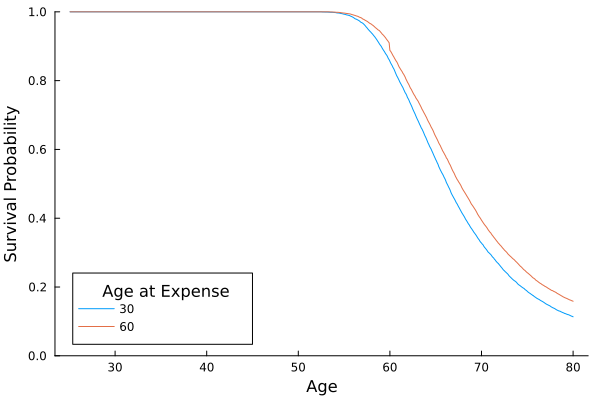
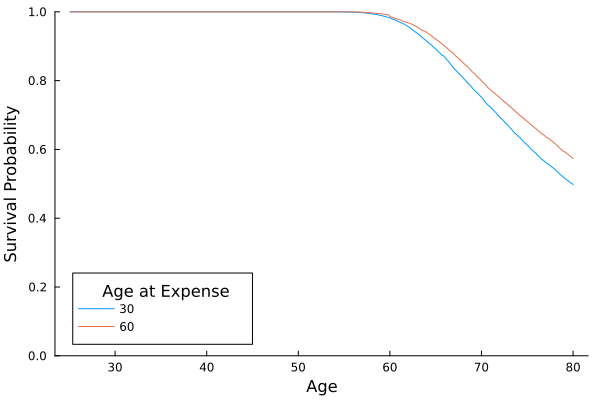
add docs for advanced example

diff --git a/docs/src/advanced_example.md b/docs/src/advanced_example.md
@@ -10,7 +10,7 @@ using StatsPlots
 The goal of the advanced example is to demonstrate how to perform more complex Monte Carlo simulations of your retirement scenario. The advanced example will cover three new techniques:
 
 1. simulating plausible dynamics in the stock market
-2. creating a custom update function for withdrawing money from investments
+2. creating a custom update function to include a large, one-time expense at various time points
 3. performing the simulation across multiple values of a parameter
 
 Adding these techniques to your toolkit will allow you to simulate more plausible retirement simulations, customize the behavior of the simulation to address your own questions and goals, and systematically compare different scenarios conveniently within the same code. 
@@ -46,6 +46,17 @@ In this example, we will use the same timing paramers used in the basic example:
 
 ### Withdraw
 
+The `withdraw` function below extends the `variable_withdraw` function from the [intermediate example](intermediate_example.md) by allowing us to specify the amount and timing of a one-time large expense. The keyword arguments for `custom_withdraw` are defined as follows:
+
+        t;
+- `start_age`: the age in years at which regular monthly withdraws begin 
+- `age_at_expense`: the age in years at which the one-time expense occurs
+- `expense`: the amount of the expense in dollars 
+- `distribution`: the distribution of regular monthly withdraw amounts
+
+
+The function `custom_withdraw` has two basic parts based on the top-level `if` statement. The first part of the `if` statement implements the logic for the large one-time expense. The second part implements the logic for the regular monthly withdraw. Notice that the one-time expense and monthly withdraw are mutually exclusive rather than additive. Changing this logic is possible, but does not have much of an effect on the simulation results. 
+
 ```julia 
 function custom_withdraw(
         model::AbstractModel, 
@@ -56,7 +67,7 @@ function custom_withdraw(
         distribution
     )
     # make withdraw for major expense if possible
-    if age_at_expense == t
+    if age_at_expense ≈ t
         model.state.withdraw_amount = expense
         if model.state.net_worth < expense
             model.state.withdraw_amount = model.state.net_worth
@@ -120,11 +131,9 @@ model = Model(;
 
 ## Configure Update Options
 
-We will specify the parameters of the update function in a nested configuration data structure, which passes keyword arguments to their corresponding update funtions. The configuration data structure is a nested `NamedTuple` (i.e., immutable keyword-value pairs), where the keywords in the first level correspond to the keyword inputs of the update functions. For example, the keyword `kw_invest` (short for keyword invest) is a set of keywords passed to the function `fixed_investment`.
+As in the [intermediate example](intermediate_example.md), the mean monthly investment follows a normal distribution with a mean of `$2,000` and a standard deviation of `$500` to reflect fluctuations in income and expenses. As before, investments are made until an early retirement at age 40. Upon retirement at age 40, we again assume that you withdraw `$2,200` per month with a standard deviation of `$500` to reflect fluctuation in monthly expenses. However, we assume that there is a large expense of `$15,000` at age 30 in one simulation and at age 60 in the others. To perform a grid search over these values, we wrap them in a vector as follows: ` age_at_expense = [30,60]`. It is worth noting that in principle we can vary additional factors in the simulation, such as the large expense amount, or the investment distribution. For the sake of simplicity, we will only vary *age-at-expense* to observe its impact on the survival probabilities across time. 
 
-The configuration data structure below defines distributions over quanties, such as investment and withdraw amount. Aside from drawling random values from probability distributions, the simulation is the same as that described in the [basic example](basic_example.md).
-
- The mean monthly investment follows a normal distribution with a mean of `$2,000` and a standard deviation of `$500` to reflect fluctuations in income and expenses. As before, investments are made until an early retirement at age 40. The yearly interest rate on investments has a mean of `.08` with a large standard deviation of `.08` to reflect inherent volitility in the stock market. The yearly inflation rate has a mean of `.035` and a standard deviation of `.015`. Upon retirement at age 40, we assume that you withdraw `$2,200` per month with a standard deviation of `$500` to reflect fluctuation in monthly expenses. 
+Unlike the previous examples, we will use the Geometric Brownian Motion process to simulate growth in the stock market and inflation in the monetary system. We will assume that the yearly growth rate on investments has a mean of `.07` with a standard deviation of `.05` to reflect inherent volitility in the stock market. Additionally, we wil assume yearly inflation rate has a mean of `.035` and a standard deviation of `.005`. All the assumptions specified above are encoded into the `config` object below. 
 
 ```julia 
 config = (
@@ -135,7 +144,7 @@ config = (
     ),
     # interest parameters
     kw_interest = (
-        gbm = GBM(; μ = .07, σ = .05),
+        gbm = GBM(; μ = .08, σ = .05),
     ),
     # inflation parameters
     kw_inflation = (
@@ -151,16 +160,38 @@ config = (
 )
 ```
 
-## Run Simulation
+## Run Grid Search
 
-Now that we have specified the parameters of the simulation, we can use the function `simulate!` to generate retirement numbers and save them to the `Logger` object. As shown below, `simulate!` requires our model object, the logger, and the number of repetitions. The optional configuration object is passed as a variable keyword using `; config...`, which maps the nested keywords in the `NamedTuple` to the corresponding keywords defined in the `simulate!` method signature. 
+In the code block below, we will perform a grid search over the values for *age-at-expense* to see how it affects the survival probability of the retirement plan across time. As its name implies, this is performed with the function `grid_search` which takes as input the `model` object, the `Logger` object type, `n_reps`, and our simulation configuration object, `config`. Internally, `grid_search` calls `simulate!` for each value of *age-at-expense*. 
+
+The second line in the code block converts the results to a `DataFrame` to make subsequent analysis and plotting easier. 
 
 ```julia
-# perform the grid search for age_at_expense using 5000 reps per condition
+# perform the grid search for age_at_expense using 10_000 reps per condition
 results = grid_search(model, Logger, 10_000; config)
 # convert output to data frame
 df = to_dataframe(model, results)
 ```
+```julia 
+13200000×6 DataFrame
+      Row │ time     rep    net_worth      interest     inflation  withdraw_age_at_expense 
+          │ Float64  Int64  Float64        Float64      Float64    Int64                   
+──────────┼────────────────────────────────────────────────────────────────────────────────
+        1 │ 25.0833      1  12839.3         0.168697    0.0256016                       30
+        2 │ 25.1667      1  14376.0        -0.0600889   0.0395033                       30
+        3 │ 25.25        1  16297.6        -0.244519    0.0583386                       30
+        4 │ 25.3333      1  18628.6         0.160349    0.0499842                       30
+        5 │ 25.4167      1  20787.8         0.0607486   0.0499415                       30
+    ⋮     │    ⋮       ⋮          ⋮             ⋮           ⋮                 ⋮
+ 13199997 │ 79.75    10000      6.48052e5  -0.189062    0.0411538                       60
+ 13199998 │ 79.8333  10000      6.43572e5   0.00590992  0.044513                        60
+ 13199999 │ 79.9167  10000      6.36921e5  -0.00792474  0.075874                        60
+ 13200000 │ 80.0     10000      6.36214e5   0.0840805   0.0522622                       60
+                                                                      13199991 rows omitted
+```
+
+Next, we will create a new indicator variable in the dataframe called `survived`, which is true if the
+net worth at time $t$ is greater than zero, and is false otherwise. The subsequent line groups the dataframe according to the factors *age-at-expense* and *time* and computes the mean of each combination across all repetitions.  
 
 ```julia 
 # code surival at each time point as true or false
@@ -168,11 +199,31 @@ df.survived = df.net_worth .> 0
 # compute the surival probability as a function of age at expense and time
 df_survival = combine(groupby(df, [:withdraw_age_at_expense,:time]), :survived => mean => :survival_prob)
 ```
-The code block below plots five simulation runs. As you can see, there is marked variability between the simulation runs, particularly during the retirement phase following peak net worth. 
+
+```julia 
+1320×3 DataFrame
+  Row │ withdraw_age_at_expense  time     survival_prob 
+      │ Int64                    Float64  Float64       
+──────┼─────────────────────────────────────────────────
+    1 │                      30  25.0833         1.0
+    2 │                      30  25.1667         1.0
+    3 │                      30  25.25           1.0
+    4 │                      30  25.3333         1.0
+    5 │                      30  25.4167         1.0
+  ⋮   │            ⋮                ⋮           ⋮
+ 1317 │                      60  79.75           0.5792
+ 1318 │                      60  79.8333         0.577
+ 1319 │                      60  79.9167         0.5754
+ 1320 │                      60  80.0            0.5739
+                                       1311 rows omitted
+```
+
+The code block below generates a plot of the survival probability as a function of time for each level of *age-at-expse*. As the plot shows, incurring the expense at age 30 reduces the surival probability compared to incurring the cost at age 60. As time continues, the difference in survival probability between the two levels increases. The primary reason is because early withdraw incurrs a larger opportunity cost for compounding interest. In this particular case, the impact was small to moderate, but the effect would be larger with a larger expense. 
 
 ```julia 
 @df df_survival plot(:time, :survival_prob, group=:withdraw_age_at_expense,
-    ylims=(0,1), legendtitle="Age at Expense", grid=false, xlabel="Age", ylabel="Survival Probability", legend=:bottomleft)
+    ylims=(0,1), legendtitle="Age at Expense", grid=false, xlabel="Age", 
+    ylabel="Survival Probability", legend=:bottomleft)
 ```
 
 ![](assets/survival_advanced_example.png)

diff --git a/docs/src/basic_example.md b/docs/src/basic_example.md
@@ -8,7 +8,7 @@ The purpose of this example is to illustrate how to use `RetirementPlanners.jl` 
 
 # Example 
 
- The example below uses simple default functions for updating quanties such as inflation, interest, and net worth through out the simulation. Each update function has default parameter values which we will change. You can change the default functions either by selecting predefined functions described in the [API](./api.md/#Update-Methods), or by defining your own custom functions. 
+ The example below uses simple functions for updating quanties such as inflation, interest, and net worth through out the simulation. Each update function has default parameter values which we will change. You can change the default functions either by selecting predefined functions described in the [API](./api.md/#Update-Methods), or by defining your own custom functions. 
 
 ## Load Packages
 
@@ -36,6 +36,10 @@ model = Model(;
     start_age = 25,
     duration = 55,
     start_amount = 10_000,
+    withdraw! = fixed_withdraw,
+    invest! = fixed_investment,
+    update_inflation! = fixed_inflation,
+    update_interest! = fixed_interest,
 )
 ```
 
@@ -52,9 +56,9 @@ model.state
 </details>
 ```
 
- The next seven fields in the `Model` object correspond to default update functions called interally by a function called `update!`. The default functions are as follows:
+ The next seven fields in the `Model` object correspond to update functions called interally by a function called `update!`. For simplicity, we will use the following functions:
 
-- `fixed_withdraw`: withdraw a fixed amount from intestments on each time step starting at a specified age
+- `fixed_withdraw`: withdraw a fixed amount from investments on each time step starting at a specified age
 - `fixed_investment`: invest a fixed amount on each time step until a specified age is reached
 - `fixed_income`: recieve a fixed income (e.g., social security, or pension) on each time step starting at a specified age
 - `fixed_inflation`: a fixed yearly inflation rate used to adjust interest (i.e., growth) earned on investments
@@ -127,7 +131,7 @@ simulate!(model, logger, n_reps; config...)
 The code block below plots net worth as a function of age. The time steps are contained in `times` and net worth is contained within the `Logger` object. 
 
 ```@example basic 
-plot(times, logger.net_worth, xlabel="Age", ylabel="Net Worth")
+plot(times, logger.net_worth, grid=false, xlabel="Age", ylabel="Net Worth")
 ```
 
 Based on the assumptions we have made, you will have `$`263,027 remaining in investments at age 80. Needless to say, this simulation is too simplistic to be of much use. Perhaps the most significant limitation is that is deterministic: investments, withdraws, infation, and interest are fixed throughout. In actuality, these values vary across time, thus introducing uncertainty into the planning process. The [intermediate example](intermediate_example.md) and the [advanced example](advanced_example.md) make progress towards overcoming these limitations.

diff --git a/docs/src/intermediate_example.md b/docs/src/intermediate_example.md
@@ -44,7 +44,7 @@ model = Model(;
 )
 ```
 
-Unlike the basic example, you can see in the output above that we have overwritten the default update function with pre-defined update functions described in the [API](api.md). The function names are prefixed with `variable` to signify that they allow us to introduce variability in the simulation behavior by sampling relevant quantities from distributions specified by the user. The distribution can be any univariate distribution defined in [Distributions.jl](https://juliastats.org/Distributions.jl/stable/). In cases where the desired distribution is not available in `Distributions.jl`, you may use their API to create custom distribution types. You can find more details on these update functions in the [API](api.md)
+The function names are prefixed with `variable` to signify that they allow us to introduce variability in the simulation behavior by sampling relevant quantities from distributions specified by the user. The distribution can be any univariate distribution defined in [Distributions.jl](https://juliastats.org/Distributions.jl/stable/). In cases where the desired distribution is not available in `Distributions.jl`, you may use their API to create custom distribution types. You can find more details on these update functions in the [API](api.md)
 or by typing `? function_name` in the the REPL. 
 
 ## Configure Update Options
@@ -106,7 +106,7 @@ One way to assess the robustness of a retirement plan is to compute the probabil
 
 ```@example intermediate
 survival_probs = mean(logger.net_worth .> 0, dims=2)
-plot(times, survival_probs,  leg=false, xlabel="Age (years)", 
+plot(times, survival_probs, leg=false, grid=false, xlabel="Age (years)", 
     ylabel="Survival Probability", ylims = (0,1.05))
 ```
 The plot above reveals that the survival probability drops rapidly around age 70, reaching about 25% at age 80. Depending on your life expectancy and risk tolerance, you might want to adjust some parameters of your retirement plan: perhaps working more years and/or investing more money.

diff --git a/docs/src/index.md b/docs/src/index.md
@@ -13,7 +13,7 @@
 
 ## How does it work?
 
-`RetirementPlanners.jl` performs a discrete time simulation, meaning the state of the system is updated at fixed time steps—typically, representing years or months. On each time step, the `update!` is called, and updates the system in a manner defined by the user. By default, `update!` calls seven subordinate functions, which must be defined by the user:
+`RetirementPlanners.jl` performs a discrete time simulation, meaning the state of the system is updated at fixed time steps—typically, representing years or months. On each time step, the `update!` is called, and updates the system in a manner defined by the user. By default, `update!` calls seven subordinate functions:
 
 1. `withdraw!`: withdraw money
 2. `invest!`: invest money
@@ -23,7 +23,7 @@
 6. `update_net_worth!`: compute net worth 
 7. `log!`: log desired variables
 
-The [API](api.md) describes pre-defined update functions from which you can choose. In addition, you may define your own update functions as needed. 
+Each function above is treated as a variable with default value that can be overwritten to suite your needs. There are two ways to overwrite the default functions: First, you can select a pre-defined function from those listed in the [API](api.md). Second, you may define your own update functions as needed. 
 
 ### Customization 
 

diff --git a/docs/src/api.md b/docs/src/api.md
@@ -3,6 +3,7 @@
 ## Abstact Types
 
 ```@docs 
+AbstractGBM
 AbstractModel
 AbstractState
 AbstractLogger
